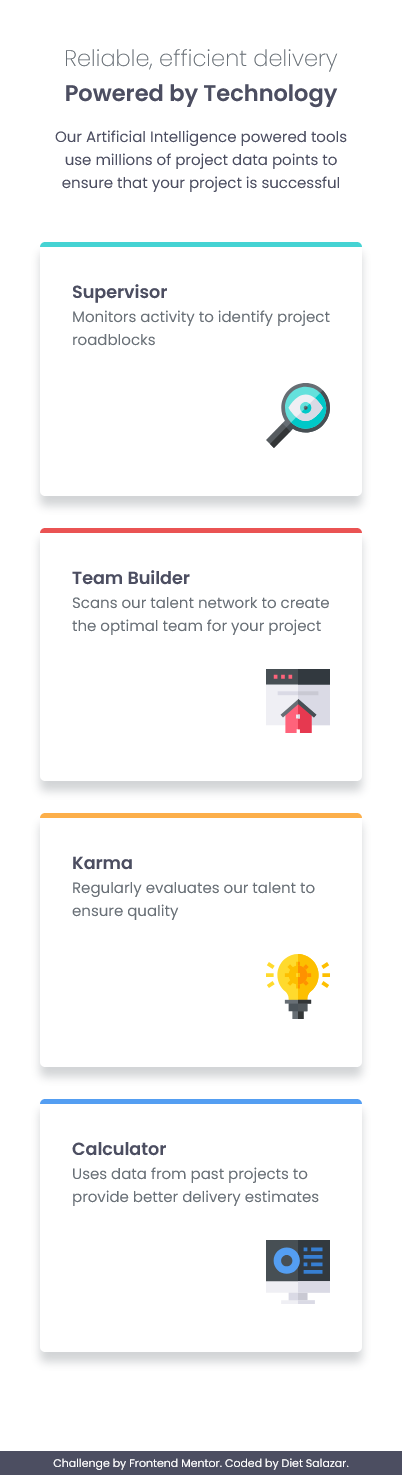
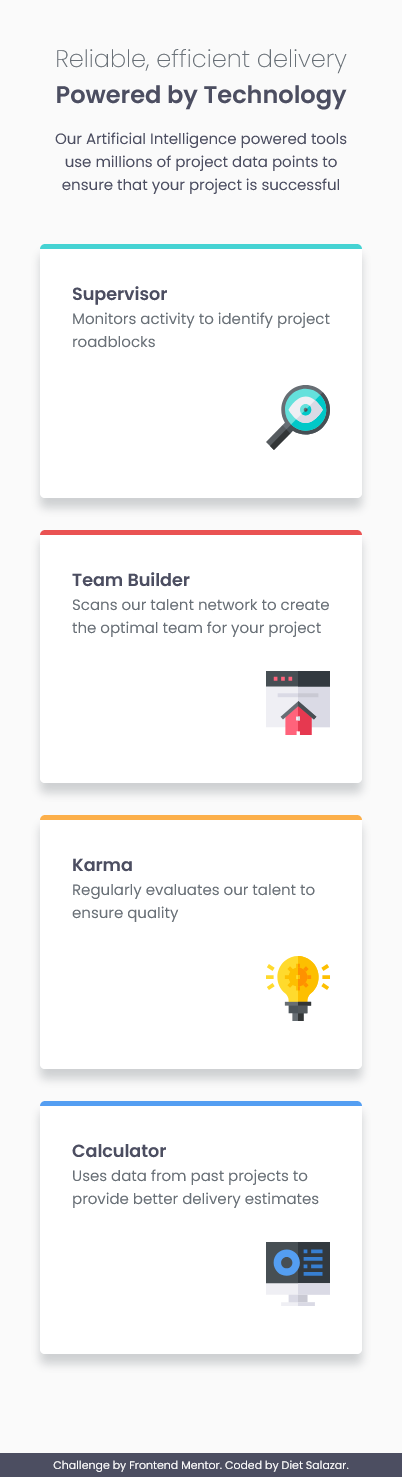
Update CSS and screenshots

diff --git a/style.css b/style.css
@@ -7,7 +7,7 @@
     --blue: hsl(212, 86%, 64%);
     --grey-500: hsl(234, 12%, 34%);
     --grey-400: hsl(212, 6%, 44%);
-    --white: hsl(0, 0%, 100%);
+    --white: hsl(0, 0%, 98%);
     font-family: 'Poppins', sans-serif;
 }
 
@@ -26,6 +26,7 @@ body {
 
 main {
     padding: 2.5rem;
+    color: var(--grey-500);
 }
 
 h1 {
@@ -72,6 +73,7 @@ p {
     border-radius: 5px;
     box-shadow: 0 10px 10px hsl(212, 6%, 44%, 0.3);
     padding: 2rem;
+    background-color: white;
 }
 
 .card-content img {
